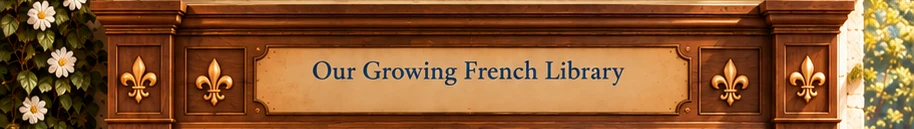
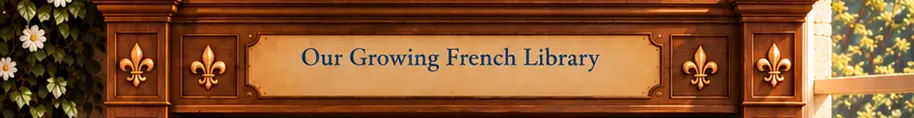
Add October book club feature

diff --git a/styles.css b/styles.css
@@ -985,7 +985,7 @@ body:not([data-seasonal-effect="autumn-leaves"]) .seasonal-effect {
 .bc-top {
     position: relative;
     line-height: 0;
-    aspect-ratio: 914 / 368;
+    aspect-ratio: 914 / 333;
     overflow: hidden;
 }
 
@@ -998,6 +998,153 @@ body:not([data-seasonal-effect="autumn-leaves"]) .seasonal-effect {
     width: 100%;
     height: auto;
     margin: 0;
+}
+
+.bc-monthly {
+    position: relative;
+    aspect-ratio: 914 / 296;
+    overflow: hidden;
+}
+
+.bc-monthly-content {
+    position: absolute;
+    inset: 0;
+    display: flex;
+    flex-direction: column;
+    align-items: center;
+    padding: 1.4% 9.5% 4.8%;
+    z-index: 1;
+}
+
+.bc-monthly h2 {
+    display: flex;
+    align-items: center;
+    gap: .75em;
+    margin: 0 0 2.2%;
+    color: #4d321d;
+    font-family: 'Playfair Display', serif;
+    font-size: clamp(.85rem, 2.3vw, 1.6rem);
+    letter-spacing: 0;
+    line-height: 1;
+    text-shadow: 0 1px rgba(255, 248, 232, .8);
+}
+
+.bc-monthly h2::before,
+.bc-monthly h2::after {
+    width: clamp(1.4rem, 5vw, 3.2rem);
+    height: 1px;
+    background: #9a6c3f;
+    content: "";
+}
+
+.bc-monthly-books {
+    position: relative;
+    width: 100%;
+    min-height: 0;
+    flex: 1;
+}
+
+.bc-monthly-book {
+    position: absolute;
+    bottom: 0;
+    left: var(--monthly-left);
+    width: 22%;
+    height: 92%;
+    margin: 0;
+    padding: .45%;
+    isolation: isolate;
+    background: rgba(255, 245, 220, .74);
+    border: 1px solid rgba(83, 48, 26, .42);
+    border-radius: 3px;
+    box-shadow: 0 7px 12px rgba(47, 23, 9, .38), inset 0 1px rgba(255, 255, 255, .72);
+    transform: translateY(calc(var(--monthly-lift) - var(--dock-rise, 0px))) rotate(var(--monthly-tilt)) scale(var(--dock-scale, 1));
+    transform-origin: center bottom;
+    transition: box-shadow .18s ease, filter .18s ease, transform .18s cubic-bezier(.2, .8, .25, 1);
+}
+
+.bc-monthly-book::after {
+    position: absolute;
+    inset: 3% 54% 3% 5%;
+    z-index: 1;
+    border-radius: 2px;
+    background: linear-gradient(105deg, rgba(255, 255, 255, .48), transparent);
+    content: "";
+    opacity: .48;
+    pointer-events: none;
+}
+
+.bc-monthly-book:nth-child(1) {
+    --monthly-delay: .06s;
+    --monthly-left: 0%;
+    --monthly-lift: 3%;
+    --monthly-tilt: -7deg;
+    z-index: 1;
+}
+
+.bc-monthly-book:nth-child(2) {
+    --monthly-delay: .13s;
+    --monthly-left: 15.6%;
+    --monthly-lift: 0%;
+    --monthly-tilt: -3.6deg;
+    z-index: 2;
+}
+
+.bc-monthly-book:nth-child(3) {
+    --monthly-delay: .2s;
+    --monthly-left: 31.2%;
+    --monthly-lift: 4%;
+    --monthly-tilt: -1deg;
+    z-index: 3;
+}
+
+.bc-monthly-book:nth-child(4) {
+    --monthly-delay: .27s;
+    --monthly-left: 46.8%;
+    --monthly-lift: 1%;
+    --monthly-tilt: 2deg;
+    z-index: 4;
+}
+
+.bc-monthly-book:nth-child(5) {
+    --monthly-delay: .34s;
+    --monthly-left: 62.4%;
+    --monthly-lift: 4%;
+    --monthly-tilt: 4.4deg;
+    z-index: 5;
+}
+
+.bc-monthly-book:nth-child(6) {
+    --monthly-delay: .41s;
+    --monthly-left: 78%;
+    --monthly-lift: 0%;
+    --monthly-tilt: 7deg;
+    z-index: 6;
+}
+
+@media (hover: hover) {
+    .bc-monthly-books:hover .bc-monthly-book {
+        box-shadow: 0 18px 25px rgba(47, 23, 9, .58), inset 0 1px rgba(255, 255, 255, .9);
+        filter: saturate(1.08) brightness(1.05);
+    }
+
+    .bc-monthly-book:hover::after {
+        opacity: .7;
+    }
+}
+
+.bc-monthly-book img {
+    display: block;
+    width: 100%;
+    height: 100%;
+    object-fit: contain;
+    filter: drop-shadow(2px 3px 3px rgba(38, 21, 9, .34));
+}
+
+@media (prefers-reduced-motion: reduce) {
+    .bc-monthly-book {
+        animation: none;
+        transition: none;
+    }
 }
 
 .bc-top-img {
@@ -1119,19 +1266,19 @@ body:not([data-seasonal-effect="autumn-leaves"]) .seasonal-effect {
     position: relative;
     line-height: 0;
     background: #241507;
-    aspect-ratio: 914 / 402;
+    aspect-ratio: 914 / 360;
     overflow: hidden;
 }
 
 .bc-shelf {
     position: absolute;
-    left: 18.2%;
-    right: 16.9%;
-    top: 2.2%;
-    bottom: 17%;
+    left: 18.5%;
+    right: 18.8%;
+    top: 3.5%;
+    bottom: 27%;
     display: flex;
     flex-direction: column;
-    gap: 3%;
+    gap: 8%;
     overflow-x: auto;
     overflow-y: hidden;
     padding: 0 .5% .3%;
@@ -1156,6 +1303,10 @@ body:not([data-seasonal-effect="autumn-leaves"]) .seasonal-effect {
     overflow: visible;
 }
 
+.bc-shelf-row:first-child {
+    flex: 0 0 40%;
+}
+
 .bc-book {
     flex: 0 0 auto;
     margin: 0;
@@ -1169,10 +1320,7 @@ body:not([data-seasonal-effect="autumn-leaves"]) .seasonal-effect {
 }
 
 .bc-book.is-tall {
-    height: 203%;
-    align-self: flex-start;
-    position: relative;
-    z-index: 1;
+    height: 100%;
 }
 
 .bc-book.is-spacer {
@@ -1217,6 +1365,22 @@ body:not([data-seasonal-effect="autumn-leaves"]) .seasonal-effect {
 }
 
 @media(max-width: 480px) {
+    .bc-monthly-content {
+        padding: 4% 5% 4.8%;
+    }
+
+    .bc-monthly-books {
+        gap: 1.7%;
+    }
+
+    .bc-monthly-book {
+        width: 23%;
+        height: 90%;
+        padding: .3%;
+        border-radius: 2px;
+        box-shadow: 0 4px 7px rgba(47, 23, 9, .35);
+    }
+
     .bc-tabs {
         top: .8%;
         height: 11.5%;

diff --git a/scripts/bookclub.js b/scripts/bookclub.js
@@ -39,8 +39,13 @@ function ninetteRenderBookLevel(levelKey) {
     if (!level) return;
 
     const books = level.books;
-    document.getElementById("bc-count-n").textContent = books.length;
-    document.getElementById("bc-progress-fill").style.width = books.length + "%";
+    const monthlyBooks = (NINETTE_BOOK_LEVELS.monthly && NINETTE_BOOK_LEVELS.monthly.books) || [];
+    const monthlyCount = monthlyBooks.filter(function (book) {
+        return book.level === levelKey;
+    }).length;
+    const bookCount = books.length + monthlyCount;
+    document.getElementById("bc-count-n").textContent = bookCount;
+    document.getElementById("bc-progress-fill").style.width = bookCount + "%";
     const shelf = document.getElementById("bc-shelf");
     shelf.scrollLeft = 0;
     shelf.classList.toggle("is-empty", books.length === 0);
@@ -59,12 +64,9 @@ function ninetteRenderBookLevel(levelKey) {
             });
             return '<div class="bc-shelf-row">' + rowBooks.map(function (book, rowBookIndex) {
                 const bookIndex = rowBookIndex * 2 + rowIndex;
-                const isTall = bookIndex % 8 === 0;
-                const isTallSpacer = rowIndex === 1 && bookIndex > 0 && (bookIndex - 1) % 8 === 0;
-                const sizeClass = isTall ? " is-tall" : (bookIndex % 3 === 0 ? " is-compact" : "");
-                const spacer = isTallSpacer ? '<figure class="bc-book is-spacer is-tall" aria-hidden="true"></figure>' : "";
+                const sizeClass = bookIndex % 3 === 0 ? " is-compact" : "";
                 const title = escapeHtml(book.title);
-                return spacer + '<figure class="bc-book' + sizeClass + '" title="' + title + '">' +
+                return '<figure class="bc-book' + sizeClass + '" title="' + title + '">' +
                     '<img loading="lazy" decoding="async" src="' + book.src.replace(/^images\//, "images/book-covers/") + '" alt="' + title + '"></figure>';
             }).join("") + "</div>";
         }).join("");
@@ -85,6 +87,46 @@ function ninetteRenderBookLevel(levelKey) {
     });
 }
 
+function ninetteRenderMonthlyBooks() {
+    const monthly = NINETTE_BOOK_LEVELS.monthly;
+    const container = document.getElementById("bc-monthly-books");
+    if (!monthly || !container) return;
+
+    container.innerHTML = monthly.books.map(function (book) {
+        const title = escapeHtml(book.title);
+        return '<figure class="bc-monthly-book" title="' + title + '">' +
+            '<img decoding="async" src="' + book.src + '" alt="' + title + '"></figure>';
+    }).join("");
+
+    const books = Array.from(container.querySelectorAll(".bc-monthly-book"));
+
+    container.addEventListener("pointermove", function (event) {
+        if (event.pointerType !== "mouse") return;
+        const containerBounds = container.getBoundingClientRect();
+        const pointerX = event.clientX - containerBounds.left;
+
+        books.forEach(function (book) {
+            const bounds = book.getBoundingClientRect();
+            const bookCenter = bounds.left - containerBounds.left + bounds.width / 2;
+            const distance = Math.abs(pointerX - bookCenter);
+            const proximity = Math.max(0, 1 - distance / (bounds.width * 1.25));
+            const bookStyle = getComputedStyle(book);
+            const lift = bookStyle.getPropertyValue("--monthly-lift").trim();
+            const tilt = bookStyle.getPropertyValue("--monthly-tilt").trim();
+            const scale = (1 + proximity * .28).toFixed(3);
+            const rise = Math.round(proximity * 18);
+            book.style.animation = "none";
+            book.style.transform = "translateY(calc(" + lift + " - " + rise + "px)) rotate(" + tilt + ") scale(" + scale + ")";
+        });
+    });
+
+    container.addEventListener("pointerleave", function () {
+        books.forEach(function (book) {
+            book.style.removeProperty("transform");
+        });
+    });
+}
+
 async function initializeBookClub() {
     const response = await fetch("scripts/bookclub-data.json");
     if (!response.ok) throw new Error("Could not load the Book Club catalogue.");
@@ -95,6 +137,7 @@ async function initializeBookClub() {
         });
     });
     ninetteAnimateShelf();
+    ninetteRenderMonthlyBooks();
     ninetteRenderBookLevel("ages-2-5");
 }
 

diff --git a/bookclub.html b/bookclub.html
@@ -67,10 +67,16 @@
         </header>
         <main class="bookclub-page-main">
             <div id="bookclub">
-                <img class="bc-banner" src="images/img-008-banner.webp" width="914" height="389" fetchpriority="high" alt="Ninette Authentic French Tutor · French Book Club · The Great Challenge of 100 Books">
-                <img class="bc-monthly-wall" src="images/bc-monthly-wall.webp" width="914" height="223" loading="lazy" decoding="async" alt="Stone wall in the chateau library, reserved for monthly featured books">
+                <img class="bc-banner" src="images/img-008-banner.webp" width="914" height="372" fetchpriority="high" alt="Ninette Authentic French Tutor · French Book Club · The Great Challenge of 100 Books">
+                <section class="bc-monthly" aria-labelledby="bc-monthly-heading">
+                    <img class="bc-monthly-wall" src="images/bc-monthly-wall.webp" width="914" height="296" loading="lazy" decoding="async" alt="Stone wall in the chateau library">
+                    <div class="bc-monthly-content">
+                        <h2 id="bc-monthly-heading">Les livres du mois</h2>
+                        <div class="bc-monthly-books" id="bc-monthly-books"></div>
+                    </div>
+                </section>
                 <div class="bc-top">
-                    <img class="bc-top-img" src="images/bc-top.webp" width="914" height="368" alt="Book Club levels, reading progress and milestone medals on the chateau library wall">
+                    <img class="bc-top-img" src="images/bc-top.webp" width="914" height="333" alt="Book Club levels, reading progress and milestone medals on the chateau library wall">
                     <div class="bc-tabs" role="tablist" aria-label="Book Club levels">
                         <button type="button" class="bc-tab" data-level="ages-2-5" role="tab">Ages 2–5</button>
                         <button type="button" class="bc-tab" data-level="k-2" role="tab" aria-label="Kindergarten to 2nd Grade">K–2</button>
@@ -83,12 +89,12 @@
                         <div class="bc-progress"><div class="bc-progress-fill" id="bc-progress-fill"></div></div>
                     </div>
                 </div>
-                <img class="bc-cornice" loading="lazy" decoding="async" src="images/bc-cornice.webp" width="914" height="129" alt="Our Growing French Library">
+                <img class="bc-cornice" loading="lazy" decoding="async" src="images/bc-cornice.webp" width="914" height="118" alt="Our Growing French Library">
                 <div class="bc-shelf-band">
-                    <img class="bc-shelf-band-img" src="images/bc-shelf-band.webp" width="914" height="402" loading="lazy" decoding="async" alt="Wooden chateau library cabinet">
+                    <img class="bc-shelf-band-img" src="images/bc-shelf-band.webp" width="914" height="360" loading="lazy" decoding="async" alt="Wooden chateau library cabinet">
                     <div class="bc-shelf" id="bc-shelf"></div>
                 </div>
-                <img class="bc-bottom" loading="lazy" decoding="async" src="images/bc-bottom.webp" width="914" height="210" alt="A cozy reading corner with an armchair, a cat, and a cup of tea - &quot;A child who reads in French discovers a wider, kinder, more beautiful world.&quot; - Ninette">
+                <img class="bc-bottom" loading="lazy" decoding="async" src="images/bc-bottom.webp" width="914" height="159" alt="A cozy reading corner with an armchair, a cat, and a cup of tea - &quot;A child who reads in French discovers a wider, kinder, more beautiful world.&quot; - Ninette">
             </div>
         </main>
         <script src="scripts/seasonal-effects.js" defer></script>
